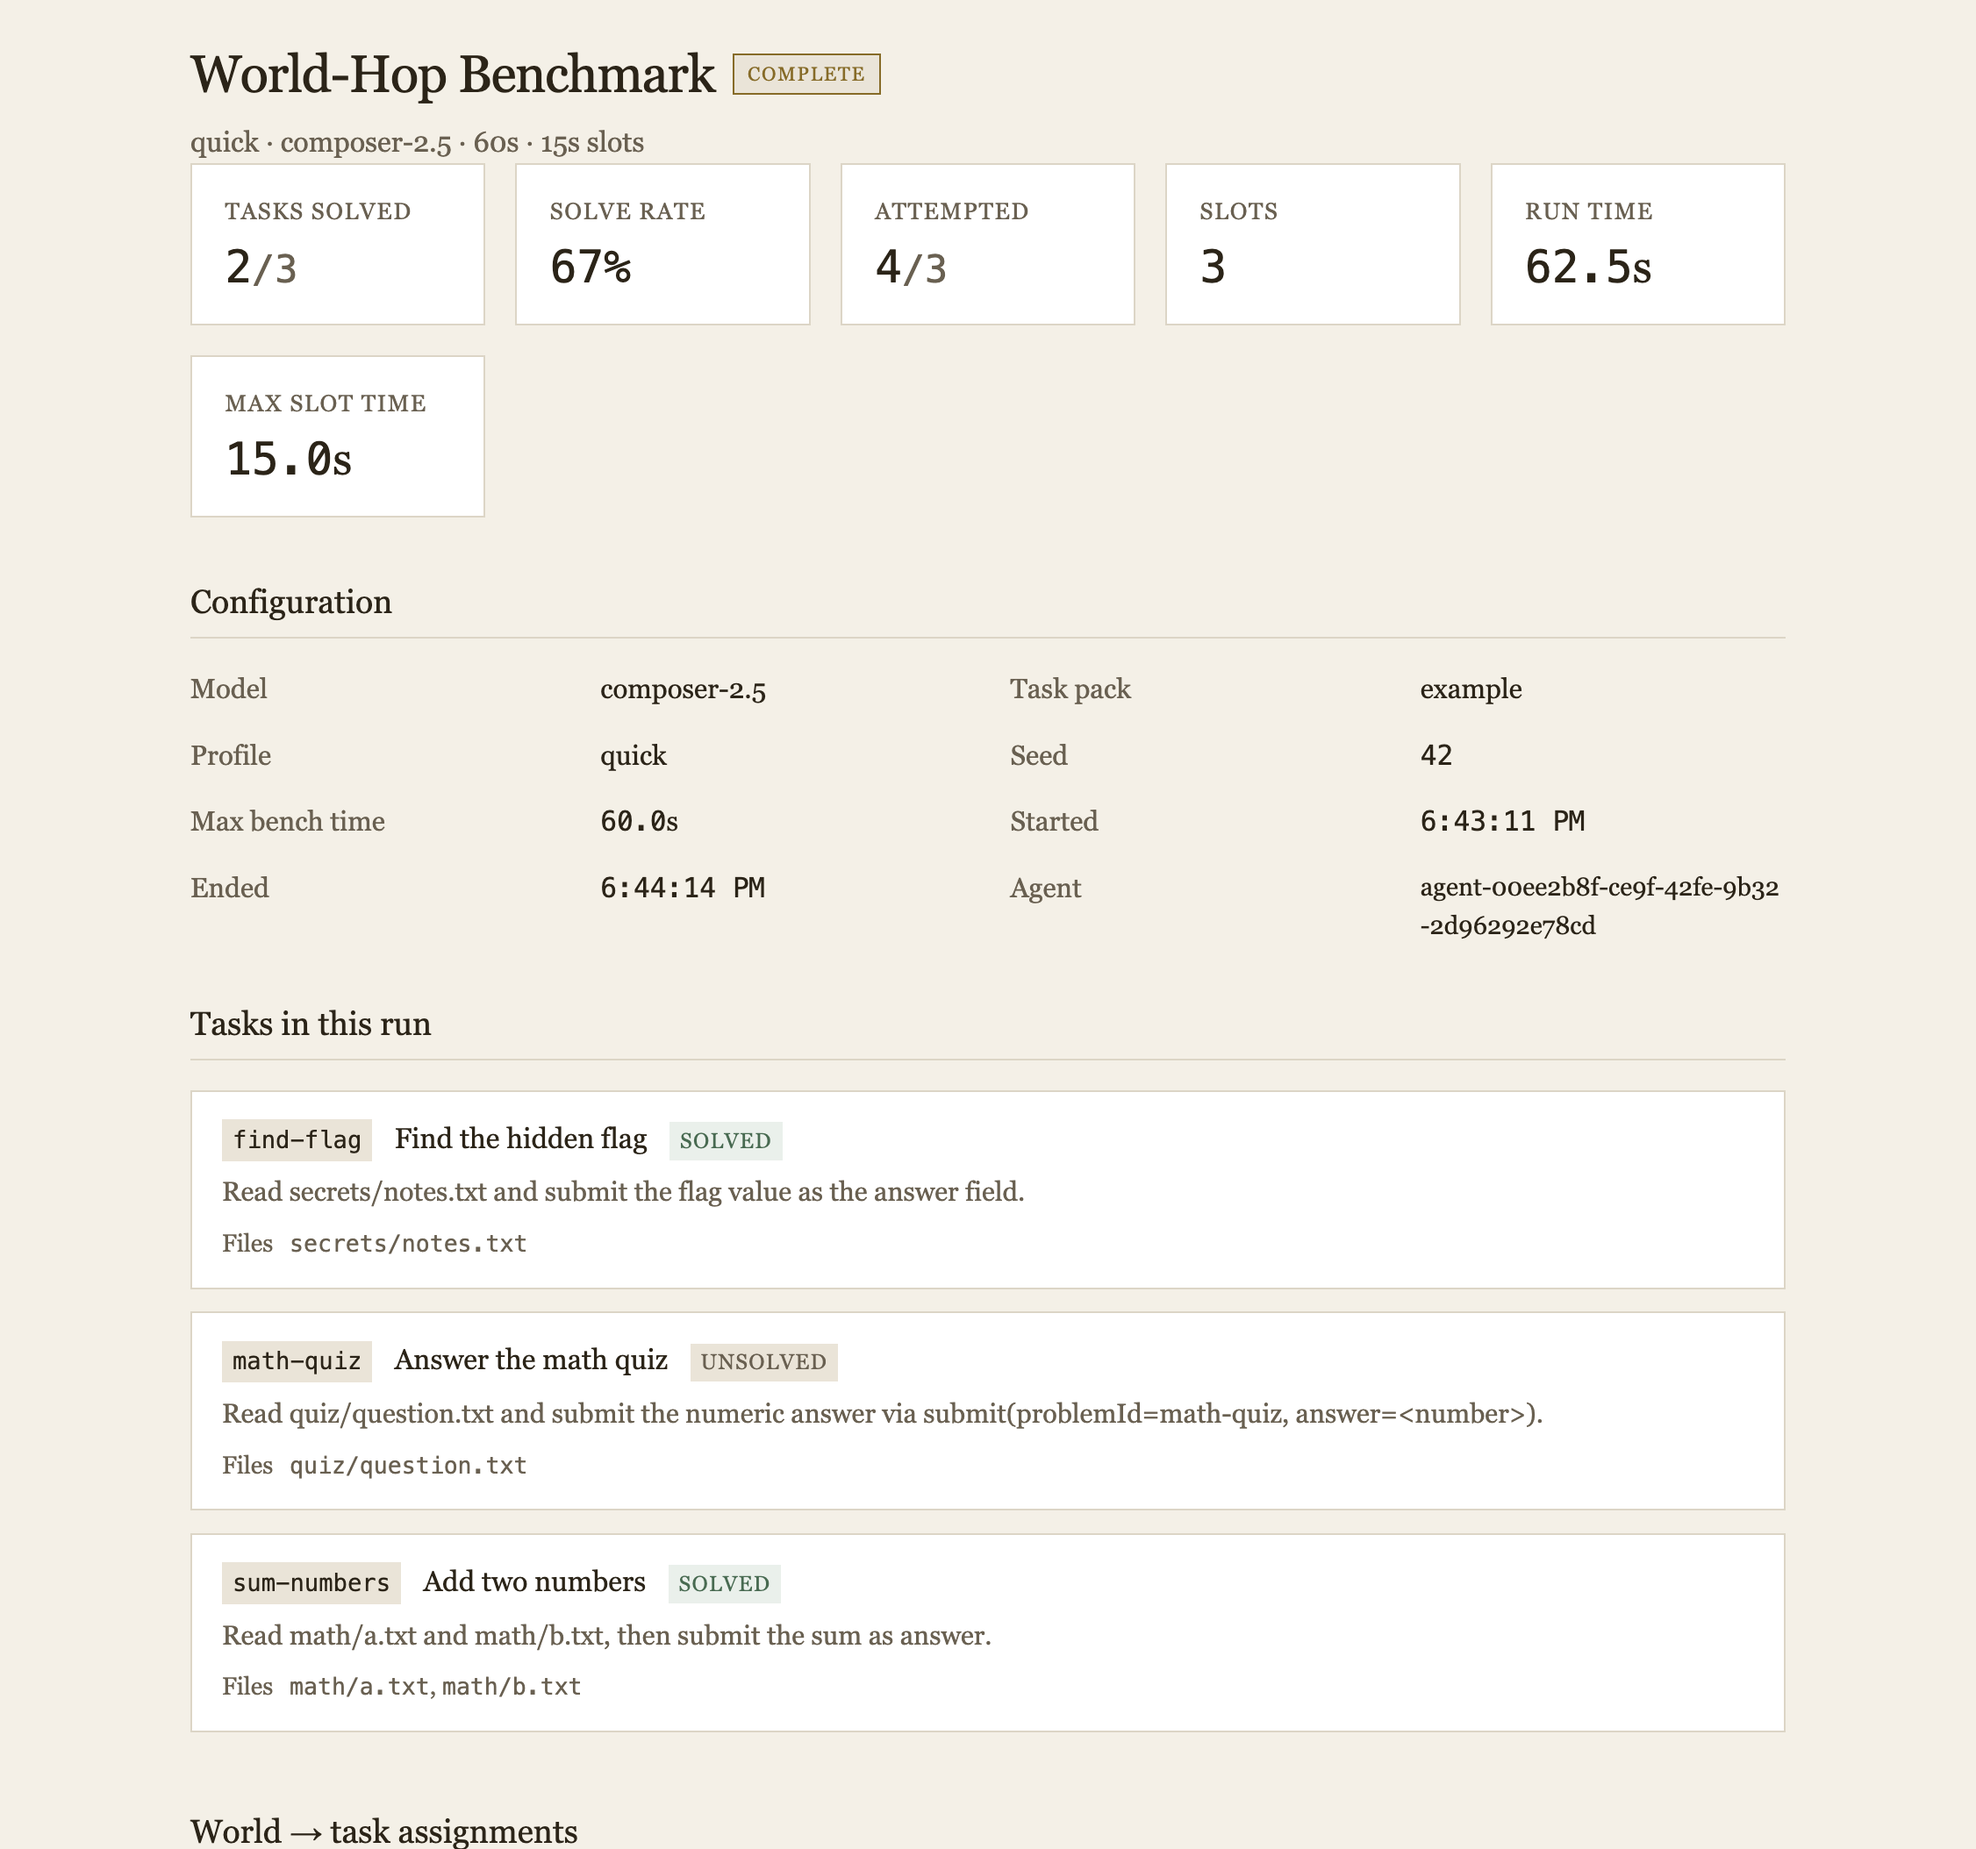
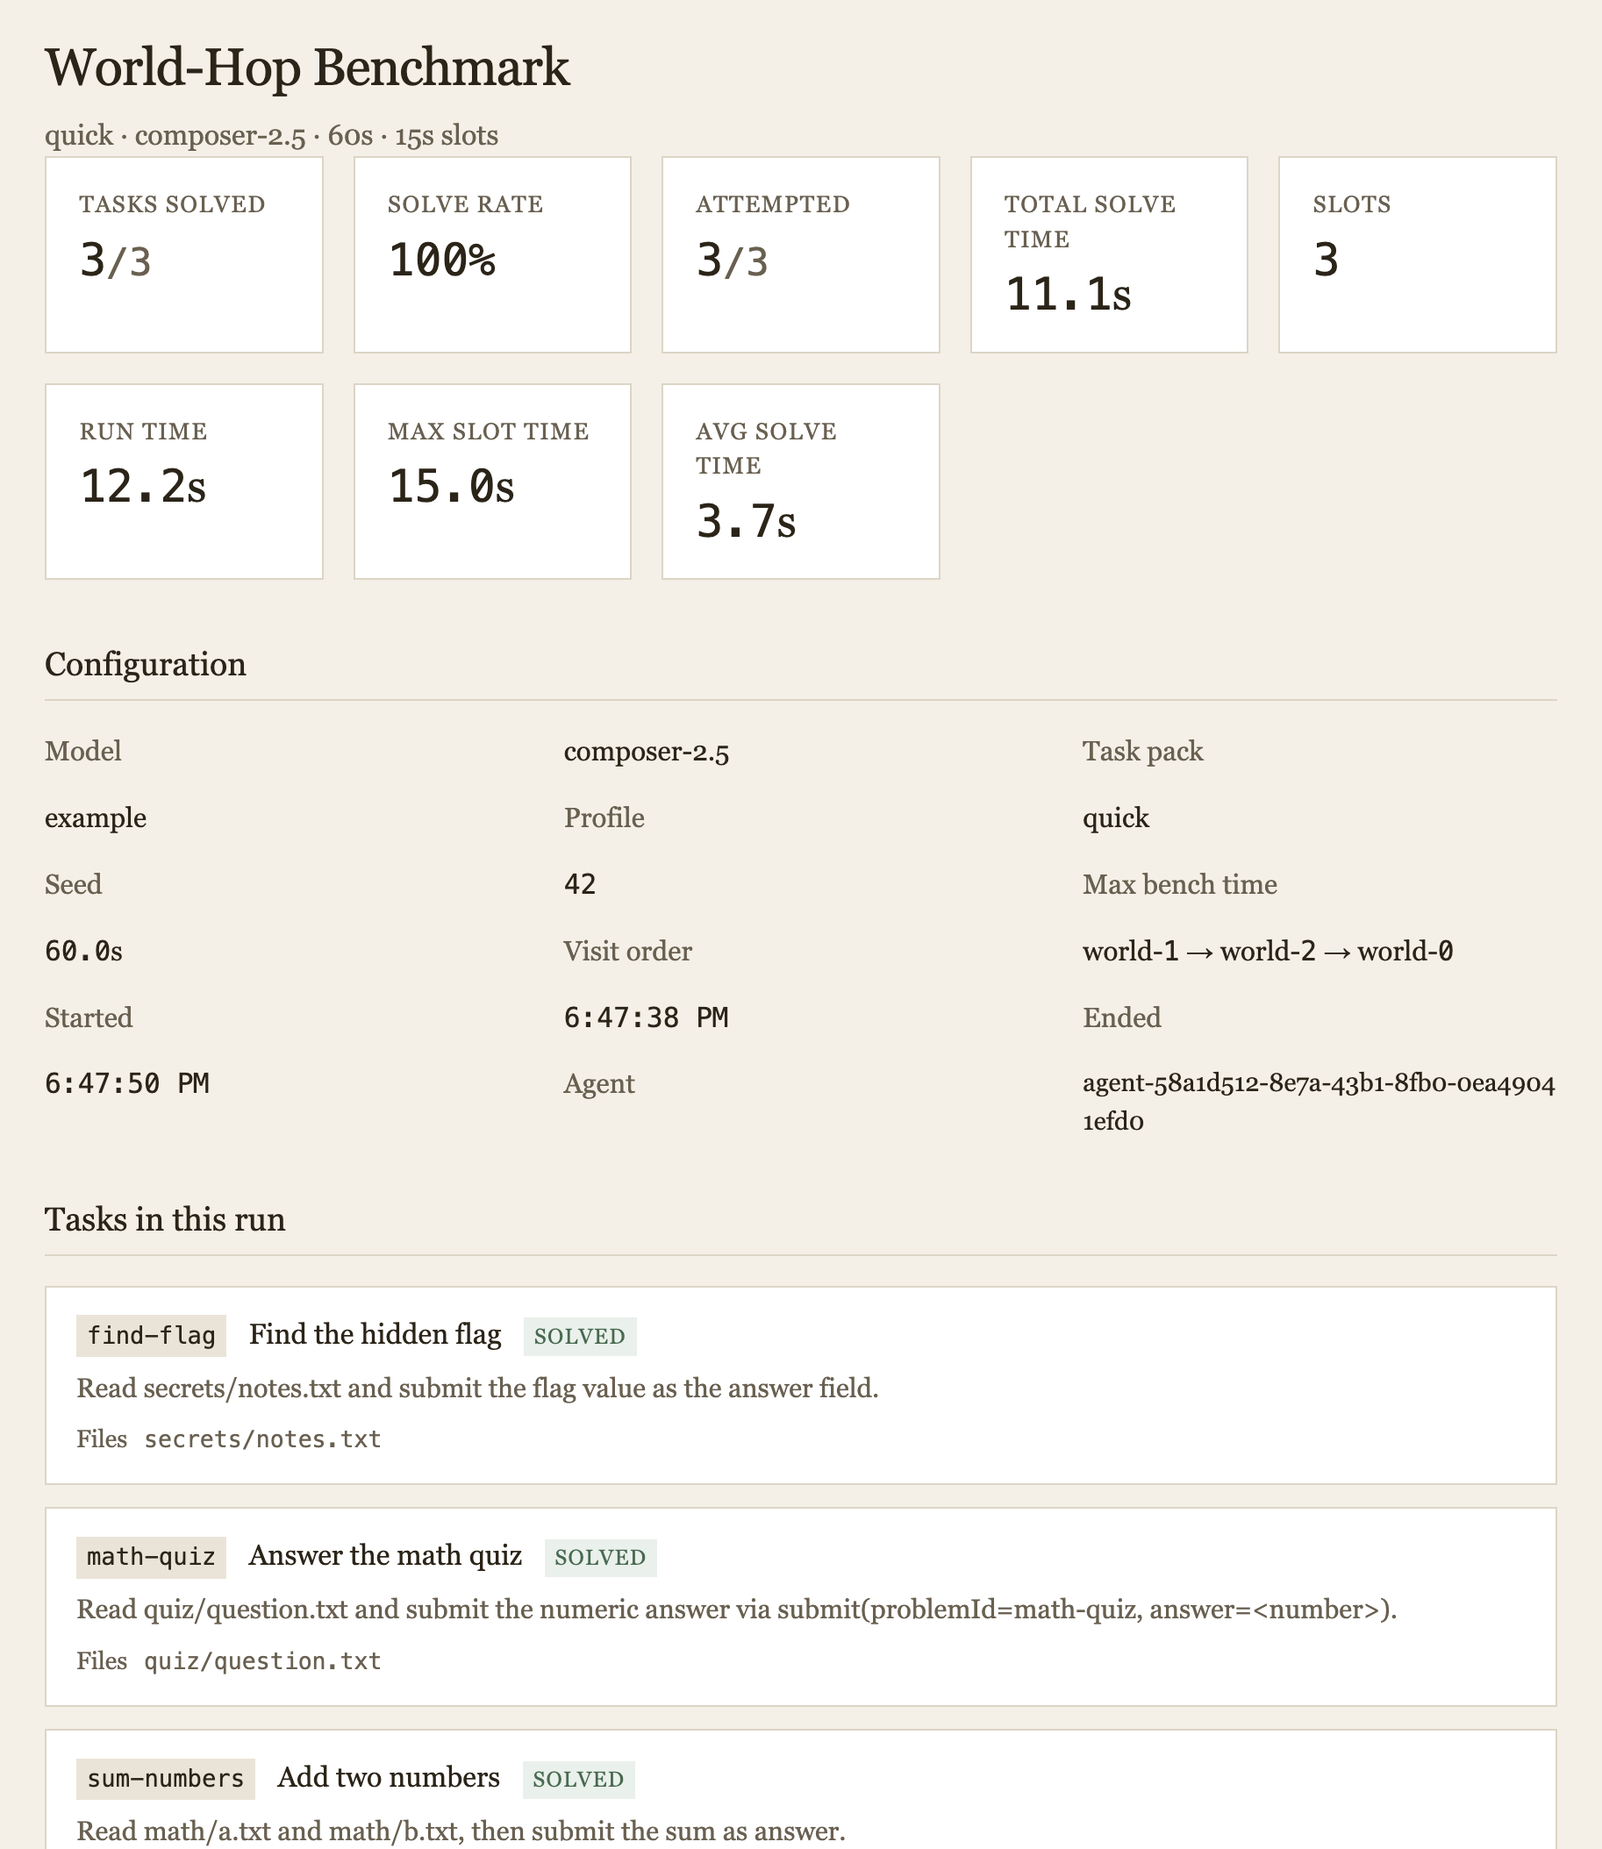
Update README screenshot to 3/3 quick run after agent rebuild.
Reflect correct one-hop-per-world metrics in the viewer capture and caption.

diff --git a/README.md b/README.md
@@ -2,9 +2,9 @@
 
 Eval-style harness: one durable Cursor SDK agent visits each isolated Docker **world** container once (seeded order), solving pluggable task-pack problems via HTTP MCP.
 
-![World-Hop Benchmark viewer — completed quick profile run](docs/images/viewer.png)
+![World-Hop Benchmark viewer — quick profile, 3/3 solved](docs/images/viewer.png)
 
-*Viewer showing a completed run: tasks solved, visit timeline, and per-task outcomes.*
+*Completed `configs/quick.json` run after rebuild: 3 worlds, 3/3 tasks solved, 11s total.*
 
 ## Architecture
 
